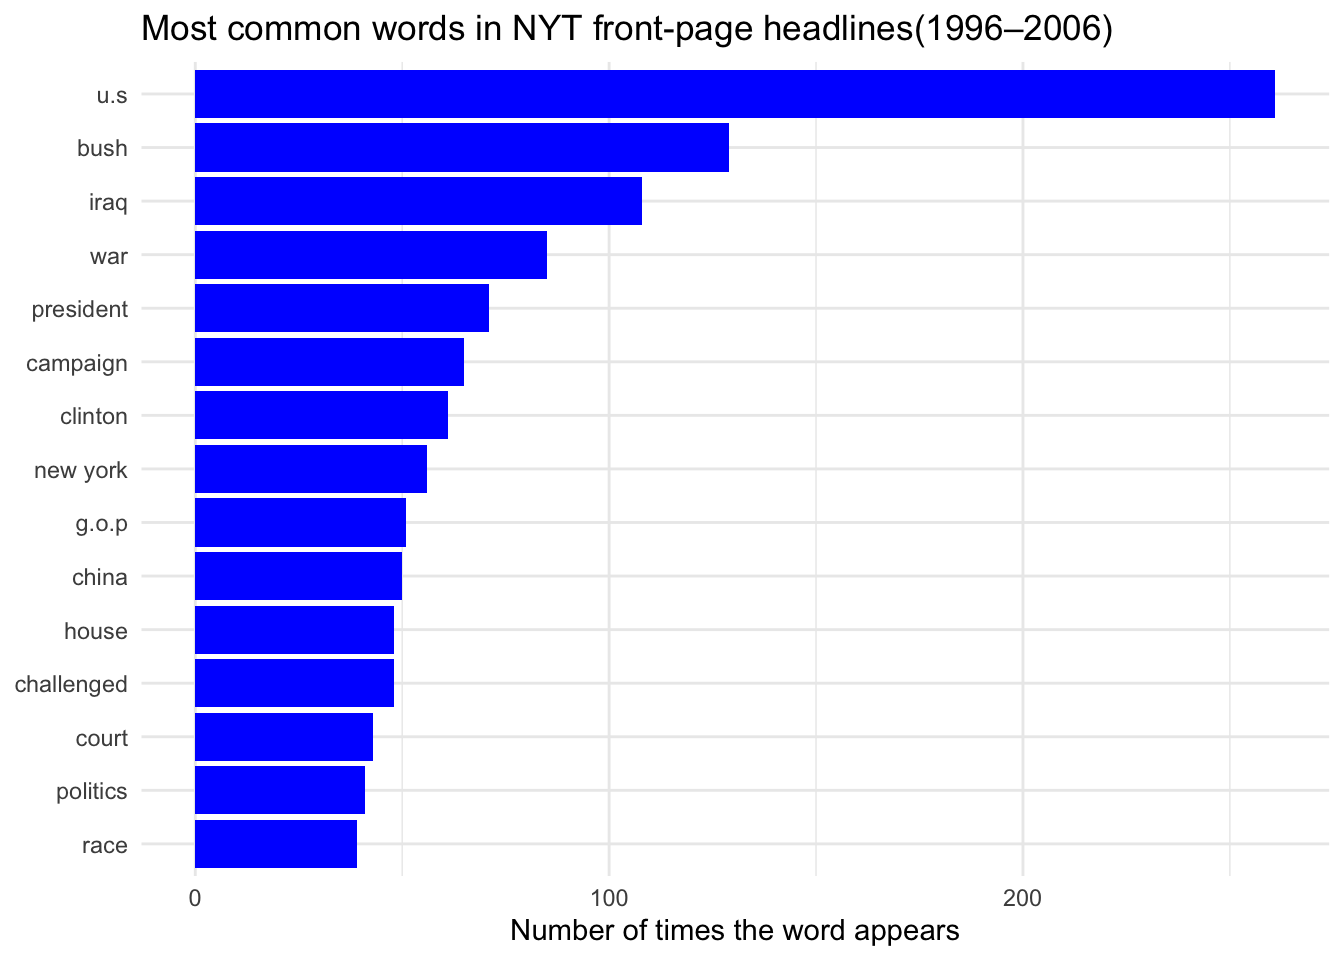
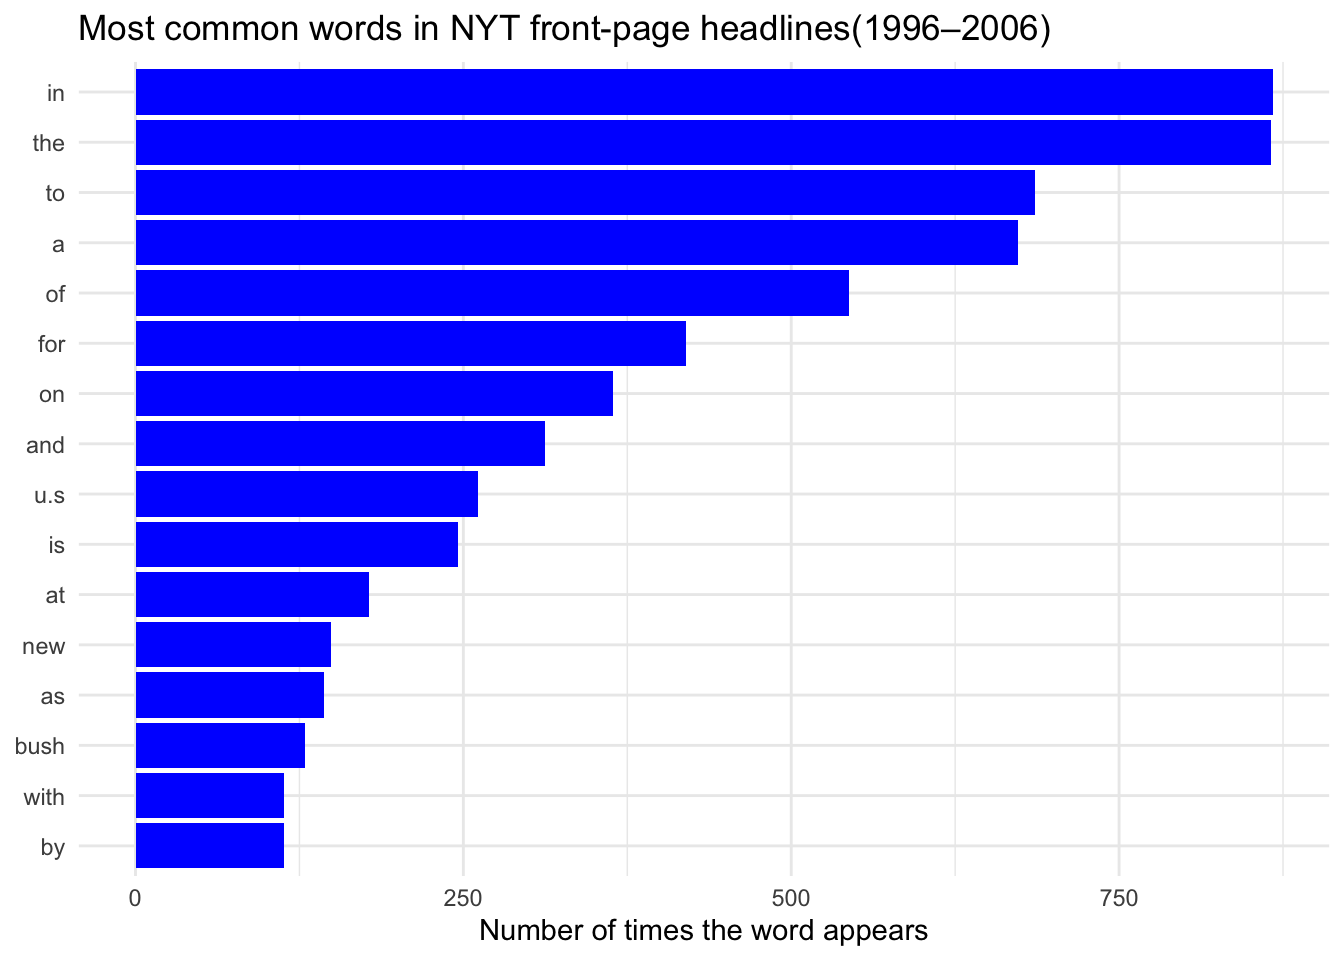
edits :

diff --git a/docs/Project2.html b/docs/Project2.html
@@ -7,7 +7,7 @@
 <meta name="viewport" content="width=device-width, initial-scale=1.0, user-scalable=yes">
 
 <meta name="author" content="Andy Xiao">
-<meta name="description" content="Analysis of New York Times headlines">
+<meta name="description" content="How the vocabulary of New York Times headlines shifted from 1996 to 2006">
 
 <title>New York Times headlines – Data Science: Andy Xiao</title>
 <style>
@@ -300,10 +300,10 @@ pre > code.sourceCode > span > a:first-child::before { text-decoration: underlin
 <span class="menu-text">Home</span></a>
   </li>  
   <li class="nav-item dropdown ">
-    <a class="nav-link dropdown-toggle" href="#" id="nav-menu-ds002-projects" role="link" data-bs-toggle="dropdown" aria-expanded="false">
- <span class="menu-text">DS002 Projects</span>
+    <a class="nav-link dropdown-toggle" href="#" id="nav-menu-data-viz" role="link" data-bs-toggle="dropdown" aria-expanded="false">
+ <span class="menu-text">Data Viz</span>
     </a>
-    <ul class="dropdown-menu" aria-labelledby="nav-menu-ds002-projects">    
+    <ul class="dropdown-menu" aria-labelledby="nav-menu-data-viz">    
         <li>
     <a class="dropdown-item" href="./Dataset1.html">
  <span class="dropdown-text">Income Inequality</span></a>
@@ -330,9 +330,19 @@ pre > code.sourceCode > span > a:first-child::before { text-decoration: underlin
 <div id="quarto-content" class="quarto-container page-columns page-rows-contents page-layout-full page-navbar">
 <!-- sidebar -->
 <!-- margin-sidebar -->
-    
+    <div id="quarto-margin-sidebar" class="sidebar margin-sidebar">
+        <nav id="TOC" role="doc-toc" class="toc-active">
+    <h2 id="toc-title">On this page</h2>
+  <ul>
+  <li><a href="#introduction" id="toc-introduction" class="nav-link active" data-scroll-target="#introduction">Introduction</a></li>
+  <li><a href="#data-cleaning" id="toc-data-cleaning" class="nav-link" data-scroll-target="#data-cleaning">Data Cleaning</a></li>
+  <li><a href="#visuals" id="toc-visuals" class="nav-link" data-scroll-target="#visuals">Visuals</a></li>
+  <li><a href="#conclusion" id="toc-conclusion" class="nav-link" data-scroll-target="#conclusion">Conclusion</a></li>
+  </ul>
+</nav>
+    </div>
 <!-- main -->
-<div class="quarto-about-marquee column-page">
+<div class="quarto-about-marquee column-page-left">
   <div class="about-image-container">
   </div>
   <div class="about-contents">
@@ -342,10 +352,10 @@ pre > code.sourceCode > span > a:first-child::before { text-decoration: underlin
 </div>
 <div>
   <div class="description">
-    Analysis of New York Times headlines
+    How the vocabulary of New York Times headlines shifted from 1996 to 2006
   </div>
 </div>
-<div class="quarto-title-meta column-page">
+<div class="quarto-title-meta column-page-left">
     <div>
     <div class="quarto-title-meta-heading">Author</div>
     <div class="quarto-title-meta-contents">
@@ -353,9 +363,12 @@ pre > code.sourceCode > span > a:first-child::before { text-decoration: underlin
           </div>
   </div>
   </div>
-</header> <main class="content column-page" id="quarto-document-content">
+</header> <main class="content column-page-left" id="quarto-document-content">
 
-<p>This page analyzes around 3,100 New York Times headlines from 1996 to 2006. Some aspects we are looking to explore are which words dominated the headlines and how has that vocabulary changes over the decade. First we must load the data and import tidyverse.</p>
+
+<section id="introduction" class="level2">
+<h2 data-anchor-id="introduction">Introduction</h2>
+<p>This page analyzes about 3,100 New York Times headlines from 1996 to 2006. I explore two questions: which words dominated the headlines during this decade, and how that vocabulary changed over time. The period covers the Clinton impeachment, the 2000 election, 9/11 and the Iraq War, so we would expect the headlines to reflect a shift in the news. First we must load the data and import tidyverse.</p>
 <div class="cell">
 <details class="code-fold">
 <summary>Show code</summary>
@@ -366,12 +379,12 @@ pre > code.sourceCode > span > a:first-child::before { text-decoration: underlin
 </div>
 <p>The data includes 5 columns and 3,104 rows, the columns include:<br>
 - Article_ID: Id for each headlines<br>
-- Date: Publication date stored as a string in the for “1-Jan-96”<br>
+- Date: Publication date stored as a string in the form “1-Jan-96”<br>
 - Title: Headline<br>
 - Subject: Summary of stroy<br>
 - Topic.Code: Number for the topic<br>
 </p>
-<p>From this data, we are most concerned with the Title and Date column. First we must extract the year from each date. We can use str_extract to take the last two digits of each date to get the year. Then turn the two digits into the full year using if_else to determine whether the year was in the 1900s or 2000s.</p>
+<p>Because Date is stored as text, we first need to extract the year. str_extract() with the regular expression “\d{2}$” takes the last two digits of each date. Then if_else() turns the two digits into a full year: values of 96 or higher belong to the 1900s, and everything else belongs to the 2000s. Without this step, years like “03” would sort before “96”.</p>
 <div class="cell">
 <details class="code-fold">
 <summary>Show code</summary>
@@ -382,10 +395,10 @@ pre > code.sourceCode > span > a:first-child::before { text-decoration: underlin
 <span id="cb2-5"><a href="#cb2-5" aria-hidden="true" tabindex="-1"></a>  )</span></code></pre></div><button title="Copy to Clipboard" class="code-copy-button"><i class="bi"></i></button></div>
 </details>
 </div>
-<p>Before we start analyzing the headlines, we must clean the text to cleanly match together strings. For example headlines with IRAQ vs Iraq would be treated differently if not cleaned before.<br>
-First by lowercasing all words using str_to_lower, we can fix the issue in the example.<br>
-Then we can remove all possesives in order to better match key words. We do this by using str_remove_all to remove the apostrophe and s if its ending the word with the boundry \b<br>
-Lastly we use str_extract all to take in all the words. [a-z]+ extracts most basic words with letters in a row, ([’.][a-z]+)* extracts words with periods or apostrophes in them as NYT convention denotes United States as U.S. Next we can use the unnest function to put each word in its own row for better extraction</p>
+</section>
+<section id="data-cleaning" class="level2">
+<h2 data-anchor-id="data-cleaning">Data Cleaning</h2>
+<p>Before analyzing the headlines, we need to clean the text so that the same word is always counted the same way. For example, some headlines are written in all caps, so “IRAQ” and “Iraq” would be treated as different words if left alone. - str_to_lower() converts every headline to lowercase, which fixes the capitalization problem. - str_remove_all() removes all possesives in order to better match key words with the pattern “’s\b” this removes possessives, The \b (word boundary) makes sure the “‘s” is only removed when it ends a word. - str_extract_all() takes in all the words, [a-z]+ extracts most basic words with letters in a row, ([’.][a-z]+)* extracts words with periods or apostrophes in them as NYT convention denotes United States as U.S. - unnest() puts each word in its own row, so we can count and filter individual words.</p>
 <div class="cell">
 <details class="code-fold">
 <summary>Show code</summary>
@@ -429,7 +442,7 @@ Lastly we use str_extract all to take in all the words. [a-z]+ extracts most bas
 16 with    113</code></pre>
 </div>
 </div>
-<p>Here we can see an issue where there are many filler words in this list that don’t help with our analysis as we are focused on the key words of each headline. Therefore we must filter out the filler words. By compiling a list of many common filler words we might see in each NYT headline, we can filter out these words to find the most frequent keywords.</p>
+<p>This list is dominated by filler words like “the”, “in” and “to”, which appear in almost every headline and tell us nothing about the news. To find the meaningful words, we filter them out using a list of common filler words.</p>
 <div class="cell">
 <details class="code-fold">
 <summary>Show code</summary>
@@ -467,16 +480,29 @@ Lastly we use str_extract all to take in all the words. [a-z]+ extracts most bas
 15 race          39</code></pre>
 </div>
 </div>
-<p>Now we can see a more interesting list of the 15 most used words throughout 1996-2006, but an interesting oversight that occured is that the word york appears 56 times, this obviously is meant to be New York, but the data cleaning split the two words up. We can fix this by using ifelse to replace york with New York.</p>
+<p>Now we can see a more interesting list of the 15 most used words throughout 1996-2006, but an interesting oversight that occured is that the word york appears 56 times, this obviously is meant to be New York, but the data cleaning split the two words up. We can fix this by implementing a lookaround in our data pipeline to find phrases with the word “new” before a space and “york” after this space, and combine the two into newyork, then the mutate function will turn it back to new york. This ensures we are finding specifc instances on New York together rather than a case where york is on its own</p>
 <div class="cell">
 <details class="code-fold">
 <summary>Show code</summary>
-<div class="code-copy-outer-scaffold"><div class="sourceCode cell-code" id="cb8"><pre class="sourceCode r code-with-copy"><code class="sourceCode r"><span id="cb8-1"><a href="#cb8-1" aria-hidden="true" tabindex="-1"></a>updated_nyt_words <span class="ot">&lt;-</span> nyt_words_clean <span class="sc">|&gt;</span></span>
-<span id="cb8-2"><a href="#cb8-2" aria-hidden="true" tabindex="-1"></a>  <span class="fu">mutate</span>(<span class="at">word =</span> <span class="fu">ifelse</span>(word <span class="sc">==</span> <span class="st">"york"</span>, <span class="st">"new york"</span>, word))</span>
-<span id="cb8-3"><a href="#cb8-3" aria-hidden="true" tabindex="-1"></a>top_words <span class="ot">&lt;-</span> updated_nyt_words <span class="sc">|&gt;</span></span>
-<span id="cb8-4"><a href="#cb8-4" aria-hidden="true" tabindex="-1"></a>  <span class="fu">count</span>(word, <span class="at">sort =</span> <span class="cn">TRUE</span>) <span class="sc">|&gt;</span></span>
-<span id="cb8-5"><a href="#cb8-5" aria-hidden="true" tabindex="-1"></a>  <span class="fu">slice_max</span>(n, <span class="at">n =</span> <span class="dv">15</span>)</span>
-<span id="cb8-6"><a href="#cb8-6" aria-hidden="true" tabindex="-1"></a>top_words</span></code></pre></div><button title="Copy to Clipboard" class="code-copy-button"><i class="bi"></i></button></div>
+<div class="code-copy-outer-scaffold"><div class="sourceCode cell-code" id="cb8"><pre class="sourceCode r code-with-copy"><code class="sourceCode r"><span id="cb8-1"><a href="#cb8-1" aria-hidden="true" tabindex="-1"></a>updated_nyt_words <span class="ot">&lt;-</span> NYT <span class="sc">|&gt;</span></span>
+<span id="cb8-2"><a href="#cb8-2" aria-hidden="true" tabindex="-1"></a>  <span class="fu">mutate</span>(</span>
+<span id="cb8-3"><a href="#cb8-3" aria-hidden="true" tabindex="-1"></a>    <span class="at">word =</span> Title <span class="sc">|&gt;</span></span>
+<span id="cb8-4"><a href="#cb8-4" aria-hidden="true" tabindex="-1"></a>      <span class="fu">str_to_lower</span>() <span class="sc">|&gt;</span></span>
+<span id="cb8-5"><a href="#cb8-5" aria-hidden="true" tabindex="-1"></a>      <span class="fu">str_replace_all</span>(<span class="st">"(?&lt;=</span><span class="sc">\\</span><span class="st">bnew) (?=york</span><span class="sc">\\</span><span class="st">b)"</span>, <span class="st">""</span>) <span class="sc">|&gt;</span></span>
+<span id="cb8-6"><a href="#cb8-6" aria-hidden="true" tabindex="-1"></a>      <span class="fu">str_remove_all</span>(<span class="st">"'s</span><span class="sc">\\</span><span class="st">b"</span>) <span class="sc">|&gt;</span></span>
+<span id="cb8-7"><a href="#cb8-7" aria-hidden="true" tabindex="-1"></a>      <span class="fu">str_extract_all</span>(<span class="st">"[a-z]+(['.][a-z]+)*"</span>)</span>
+<span id="cb8-8"><a href="#cb8-8" aria-hidden="true" tabindex="-1"></a>  ) <span class="sc">|&gt;</span></span>
+<span id="cb8-9"><a href="#cb8-9" aria-hidden="true" tabindex="-1"></a>  <span class="fu">unnest</span>(word) <span class="sc">|&gt;</span></span>
+<span id="cb8-10"><a href="#cb8-10" aria-hidden="true" tabindex="-1"></a>  <span class="fu">mutate</span>(<span class="at">word =</span> <span class="fu">if_else</span>(word <span class="sc">==</span> <span class="st">"newyork"</span>, <span class="st">"new york"</span>, word))</span>
+<span id="cb8-11"><a href="#cb8-11" aria-hidden="true" tabindex="-1"></a></span>
+<span id="cb8-12"><a href="#cb8-12" aria-hidden="true" tabindex="-1"></a>nyt_words_clean <span class="ot">&lt;-</span> updated_nyt_words <span class="sc">|&gt;</span></span>
+<span id="cb8-13"><a href="#cb8-13" aria-hidden="true" tabindex="-1"></a>  <span class="fu">filter</span>(<span class="sc">!</span>word <span class="sc">%in%</span> filler_words)</span>
+<span id="cb8-14"><a href="#cb8-14" aria-hidden="true" tabindex="-1"></a></span>
+<span id="cb8-15"><a href="#cb8-15" aria-hidden="true" tabindex="-1"></a>top_words <span class="ot">&lt;-</span> nyt_words_clean <span class="sc">|&gt;</span></span>
+<span id="cb8-16"><a href="#cb8-16" aria-hidden="true" tabindex="-1"></a>  <span class="fu">count</span>(word, <span class="at">sort =</span> <span class="cn">TRUE</span>) <span class="sc">|&gt;</span></span>
+<span id="cb8-17"><a href="#cb8-17" aria-hidden="true" tabindex="-1"></a>  <span class="fu">slice_max</span>(n, <span class="at">n =</span> <span class="dv">15</span>)</span>
+<span id="cb8-18"><a href="#cb8-18" aria-hidden="true" tabindex="-1"></a></span>
+<span id="cb8-19"><a href="#cb8-19" aria-hidden="true" tabindex="-1"></a>top_words</span></code></pre></div><button title="Copy to Clipboard" class="code-copy-button"><i class="bi"></i></button></div>
 </details>
 <div class="cell-output cell-output-stdout">
 <pre><code># A tibble: 15 × 2
@@ -499,7 +525,10 @@ Lastly we use str_extract all to take in all the words. [a-z]+ extracts most bas
 15 race          39</code></pre>
 </div>
 </div>
-<p>Now we can construct a visual to show the most common words used in the NYT headlines. We can use fct_reorder to order the y axis with most appearances at the top of the diagram.</p>
+</section>
+<section id="visuals" class="level2">
+<h2 data-anchor-id="visuals">Visuals</h2>
+<p>Next, we can construct a visual to show the most common words used in the NYT headlines. fct_reorder() orders the bars so that the most frequent word appears at the top.</p>
 <div class="cell">
 <details class="code-fold">
 <summary>Show code</summary>
@@ -522,7 +551,7 @@ Lastly we use str_extract all to take in all the words. [a-z]+ extracts most bas
 </div>
 </div>
 </div>
-<p>From this graph we can see that the Bush(2001-2009) administration gathered as mush as twice the attention Clinton(1993-2001) received even though each administration had the same amount of time in the data set. This suggests that Bush from 2001-2006 produced more front page news than Clinton did likely due to the Iraq war and 9/11. Additionally we can see that during this timeframe foriegn affairs news coverage mainly surrounded the Iraq war and slightly to China.</p>
+<p>From this visualization, “U.S.” is by far the most common word, appearing about 261 times, roughly twice as often as any other word. The graph also shows that Bush received about twice as much attention as Clinton, even though the two presidents cover roughly the same amount of time in the dataset, with Clinton from 1996 to 2000 and Bush from 2001 to 2006. This suggests that the Bush years produced more front-page news centered on the president, likely because of 9/11 and the Iraq War. In foreign affairs, coverage centered mainly on Iraq, with China appearing to a lesser extent.</p>
 <p>While this visual gives a good depiction into what the common language in headlines during this time period was, it is unable to convey the trends in when each word would appear. Therefore, constructing a visual representing the trend in word usage can be beneficial to gain insight into when these words are actually being used. Here we are taking the 5 most common words and tracking them throughout 1996-2006</p>
 <div class="cell">
 <details class="code-fold">
@@ -535,7 +564,7 @@ Lastly we use str_extract all to take in all the words. [a-z]+ extracts most bas
 <span id="cb11-6"><a href="#cb11-6" aria-hidden="true" tabindex="-1"></a>  <span class="fu">geom_line</span>(<span class="at">linewidth =</span> <span class="dv">1</span>) <span class="sc">+</span></span>
 <span id="cb11-7"><a href="#cb11-7" aria-hidden="true" tabindex="-1"></a>  <span class="fu">scale_x_continuous</span>(<span class="at">breaks =</span> <span class="dv">1996</span><span class="sc">:</span><span class="dv">2006</span>) <span class="sc">+</span></span>
 <span id="cb11-8"><a href="#cb11-8" aria-hidden="true" tabindex="-1"></a>  <span class="fu">labs</span>(</span>
-<span id="cb11-9"><a href="#cb11-9" aria-hidden="true" tabindex="-1"></a>    <span class="at">title =</span> <span class="st">"Yearly mentions of the top 15 NYT front-page headline words, 1996–2006"</span>,</span>
+<span id="cb11-9"><a href="#cb11-9" aria-hidden="true" tabindex="-1"></a>    <span class="at">title =</span> <span class="st">"Yearly mentions of the top 5 NYT front-page headline words, 1996–2006"</span>,</span>
 <span id="cb11-10"><a href="#cb11-10" aria-hidden="true" tabindex="-1"></a>    <span class="at">x =</span> <span class="st">"Year"</span>,</span>
 <span id="cb11-11"><a href="#cb11-11" aria-hidden="true" tabindex="-1"></a>    <span class="at">y =</span> <span class="st">"Number of mentions"</span>,</span>
 <span id="cb11-12"><a href="#cb11-12" aria-hidden="true" tabindex="-1"></a>    <span class="at">color =</span> <span class="st">"Word"</span></span>
@@ -551,8 +580,18 @@ Lastly we use str_extract all to take in all the words. [a-z]+ extracts most bas
 </div>
 </div>
 <p>From this visual we can see large spikes in these terms. We can see a large spike in the terms “iraq” and “war” in 2003 due to the start of the Iraq war. Additionally in 1998 there’s and unusual spike in usage of “president” in 1998 and this is likely due to the impeachment of Bill Clinton in 1998. Also there are large spikes with the terms “U.S.” and “Bush” in 2001 due to 9/11.</p>
+</section>
+<section id="conclusion" class="level2">
+<h2 data-anchor-id="conclusion">Conclusion</h2>
+<p>Analyzing the words in these headlines shows a clear shift in what dominated the New York Times between 1996 and 2006. In the late 1990s, headlines focused mainly on domestic politics, such as elections, Congress and the impeachment of Bill Clinton, which caused the spike in “president” in 1998. After 2001, the focus shifted toward 9/11, the Bush administration and the Iraq War, with “Iraq” and “war” peaking in 2003. Throughout the whole decade, “U.S.” remained the most common word by a wide margin, reflecting the paper’s focus on America’s role both at home and abroad.</p>
+<p>One limitation of this analysis is that it only counts how often words appear, not what the headlines say about them. For example, “war” is counted the same way whether a headline is about the Iraq War or a political “war” over a bill. A future analysis could also compare the headline vocabulary with the hand-written <code>Subject</code> summaries in the dataset.</p>
+<ul>
+<li>Data: <code>NYTimes</code> dataset from the RTextTools R package: <a href="https://github.com/cran/RTextTools" class="uri">https://github.com/cran/RTextTools</a></li>
+<li>Original source: New York Times headlines, compiled and hand-labeled by Professor Amber E. Boydstun, University of California, Davis.</li>
+</ul>
 
 
+</section>
 </main> 
   </div>
 </div>

diff --git a/docs/index.html b/docs/index.html
@@ -263,10 +263,10 @@ ul.task-list li input[type="checkbox"] {
 <span class="menu-text">Home</span></a>
   </li>  
   <li class="nav-item dropdown ">
-    <a class="nav-link dropdown-toggle" href="#" id="nav-menu-ds002-projects" role="link" data-bs-toggle="dropdown" aria-expanded="false">
- <span class="menu-text">DS002 Projects</span>
+    <a class="nav-link dropdown-toggle" href="#" id="nav-menu-data-viz" role="link" data-bs-toggle="dropdown" aria-expanded="false">
+ <span class="menu-text">Data Viz</span>
     </a>
-    <ul class="dropdown-menu" aria-labelledby="nav-menu-ds002-projects">    
+    <ul class="dropdown-menu" aria-labelledby="nav-menu-data-viz">    
         <li>
     <a class="dropdown-item" href="./Dataset1.html">
  <span class="dropdown-text">Income Inequality</span></a>
@@ -277,7 +277,7 @@ ul.task-list li input[type="checkbox"] {
   </li>  
         <li>
     <a class="dropdown-item" href="./Project2.html">
- <span class="dropdown-text">Project 2</span></a>
+ <span class="dropdown-text">New York Times</span></a>
   </li>  
     </ul>
   </li>
@@ -306,18 +306,15 @@ ul.task-list li input[type="checkbox"] {
   </div>
 </header><main class="content column-page" id="quarto-document-content">
 
-<p>Hi, I’m Andy Xiao, a Computer Science and Economics student at Pomona College. I also play soccer on the Pomona-Pitzer mens team. This website is for D2002</p>
+<p>Hi, I’m Andy Xiao, a Computer Science and Economics student at Pomona College. I also play soccer on the Pomona-Pitzer men’s team. This website is for D2002</p>
 
 
 </main> 
   <hr class="about-sep">
    <div class="about-links">
-  <a href="" class="about-link" rel="" target="">
+  <a href="https://axiao500.github.io/" class="about-link" rel="" target="">
     <i class="bi bi-github"></i>
-     <span class="about-link-text"></span>
-  </a>
-  <a href="https://github.com/axiao500/DS002Website" class="about-link" rel="" target="">
-     <span class="about-link-text">https://github.com/axiao500/DS002Website</span>
+     <span class="about-link-text">GitHub</span>
   </a>
 </div>
 </div>
